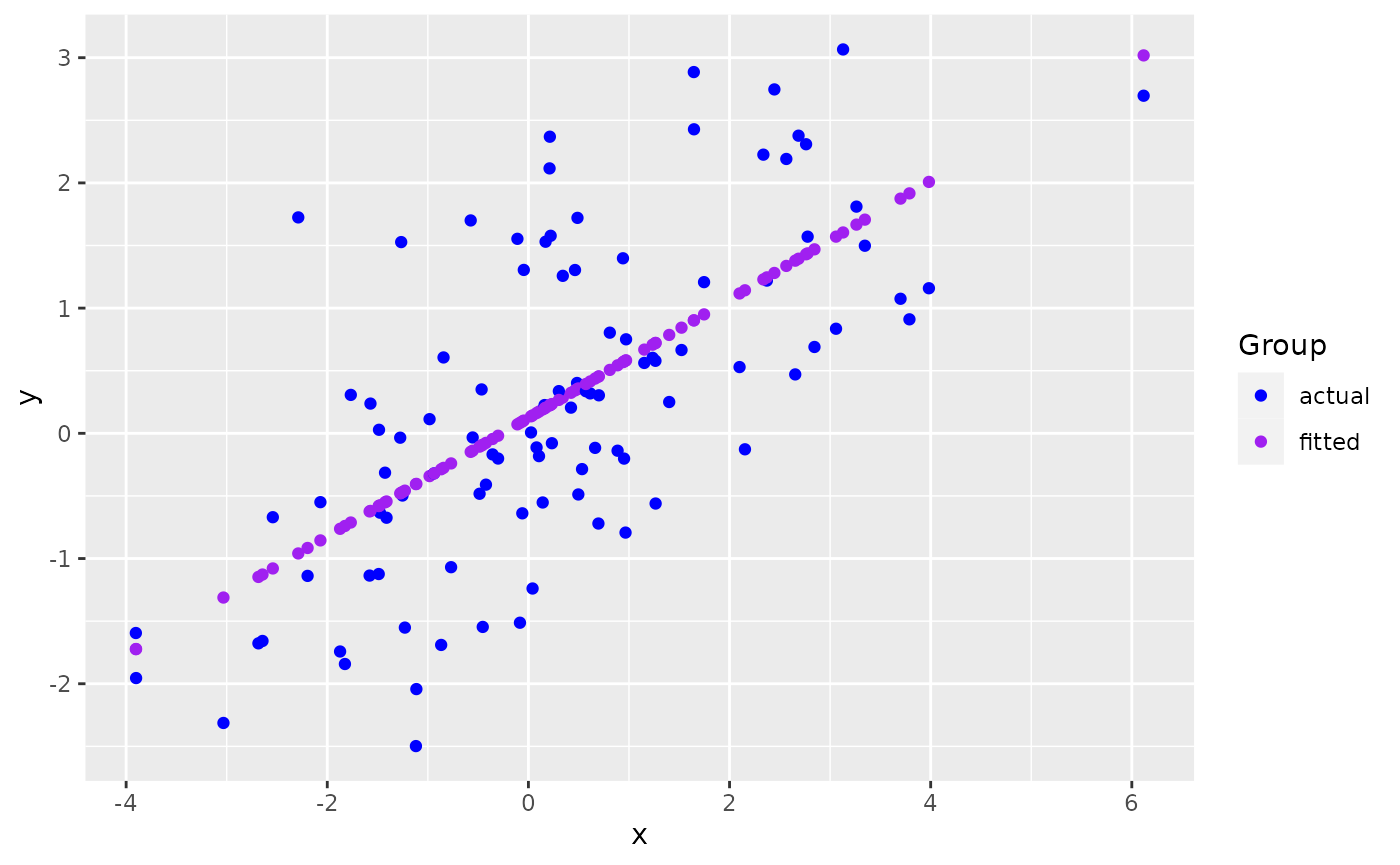
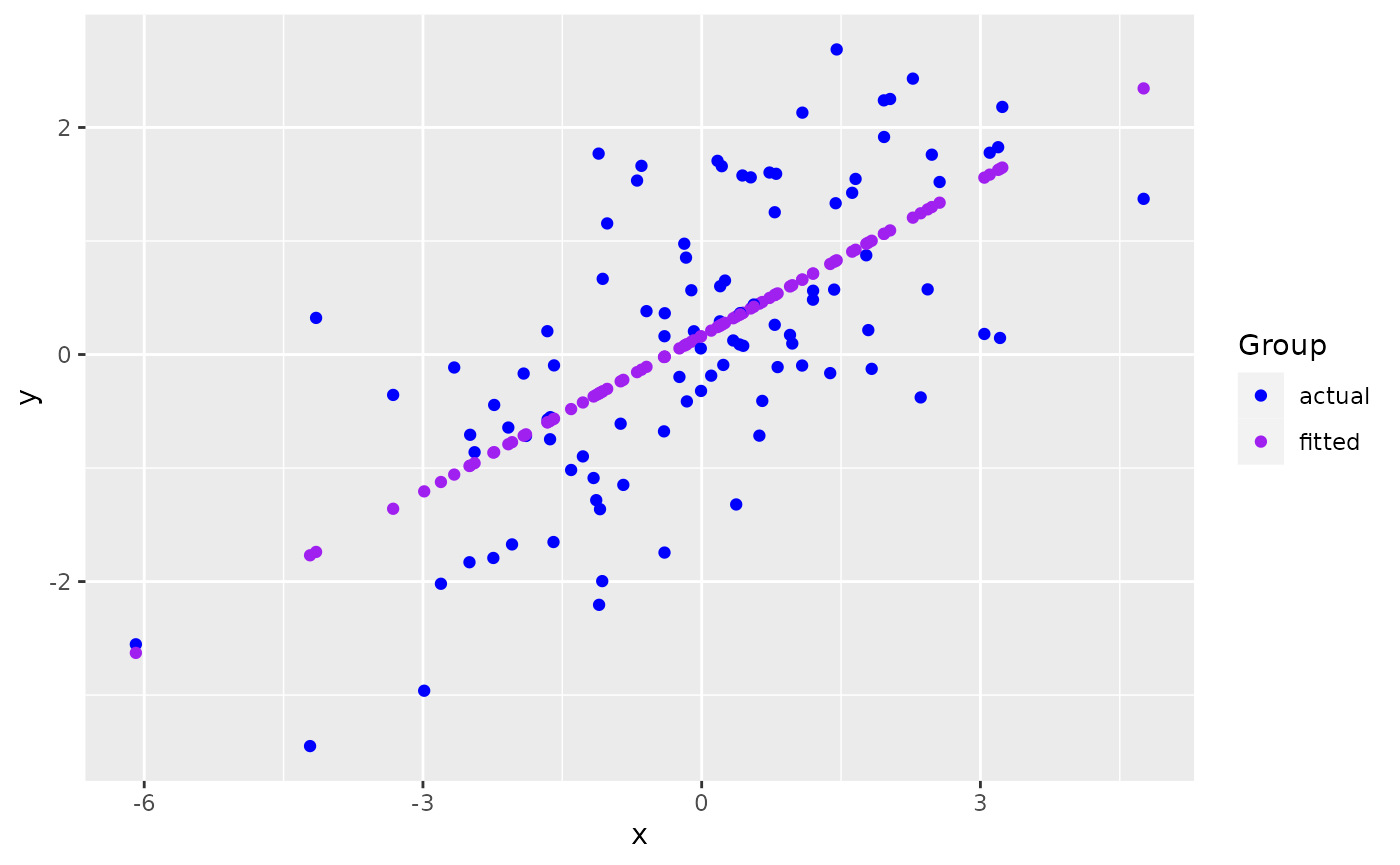
Built site for ggmatplot: 0.1.0@a662163

diff --git a/articles/ggmatplot.html b/articles/ggmatplot.html
@@ -101,7 +101,7 @@
 <span class="va">x</span> <span class="op">&lt;-</span> <span class="fu"><a href="https://rdrr.io/r/base/c.html">c</a></span><span class="op">(</span><span class="fu"><a href="https://rdrr.io/r/stats/Normal.html">rnorm</a></span><span class="op">(</span><span class="fl">100</span>, sd <span class="op">=</span> <span class="fl">2</span><span class="op">)</span><span class="op">)</span>
 
 <span class="fu"><a href="https://rdrr.io/r/utils/head.html">head</a></span><span class="op">(</span><span class="va">x</span><span class="op">)</span>
-<span class="co">#&gt; [1]  2.4457878  3.2618394 -0.3015357  0.0810477  2.6861068  1.1521492</span>
+<span class="co">#&gt; [1] -1.6317484  2.4770697  0.3715605 -2.9867271  0.6210715  0.1960235</span>
 
 <span class="co"># matrix z</span>
 <span class="va">y</span> <span class="op">&lt;-</span> <span class="va">x</span> <span class="op">*</span> <span class="fl">0.5</span> <span class="op">+</span> <span class="fu"><a href="https://rdrr.io/r/stats/Normal.html">rnorm</a></span><span class="op">(</span><span class="fl">100</span>, sd <span class="op">=</span> <span class="fl">1</span><span class="op">)</span>
@@ -110,13 +110,13 @@
            fitted <span class="op">=</span> <span class="va">fit.y</span><span class="op">)</span>
 
 <span class="fu"><a href="https://rdrr.io/r/utils/head.html">head</a></span><span class="op">(</span><span class="va">z</span><span class="op">)</span>
-<span class="co">#&gt;       actual      fitted</span>
-<span class="co">#&gt; 1  2.7466415  1.28084686</span>
-<span class="co">#&gt; 2  1.8106129  1.66700675</span>
-<span class="co">#&gt; 3 -0.2012873 -0.01920106</span>
-<span class="co">#&gt; 4 -0.1127451  0.16183943</span>
-<span class="co">#&gt; 5  2.3771459  1.39456708</span>
-<span class="co">#&gt; 6  0.5622378  0.66869030</span></code></pre></div>
+<span class="co">#&gt;       actual     fitted</span>
+<span class="co">#&gt; 1 -0.7464592 -0.5844593</span>
+<span class="co">#&gt; 2  1.7602729  1.2990449</span>
+<span class="co">#&gt; 3 -1.3208041  0.3338683</span>
+<span class="co">#&gt; 4 -2.9616721 -1.2055887</span>
+<span class="co">#&gt; 5 -0.7145803  0.4482455</span>
+<span class="co">#&gt; 6  0.2923315  0.2534011</span></code></pre></div>
 <p><code>ggmatplot</code> plots vector <code>x</code> against each column of matrix <code>z</code> using the default <code>plot_type = "point"</code>. This will be represented on the resulting plot as two groups, identified using different shapes and colors.</p>
 <div class="sourceCode" id="cb2"><pre class="downlit sourceCode r">
 <code class="sourceCode R"><span class="kw"><a href="https://rdrr.io/r/base/library.html">library</a></span><span class="op">(</span><span class="va"><a href="https://github.com/xuan-liang/ggmatplot">ggmatplot</a></span><span class="op">)</span>
